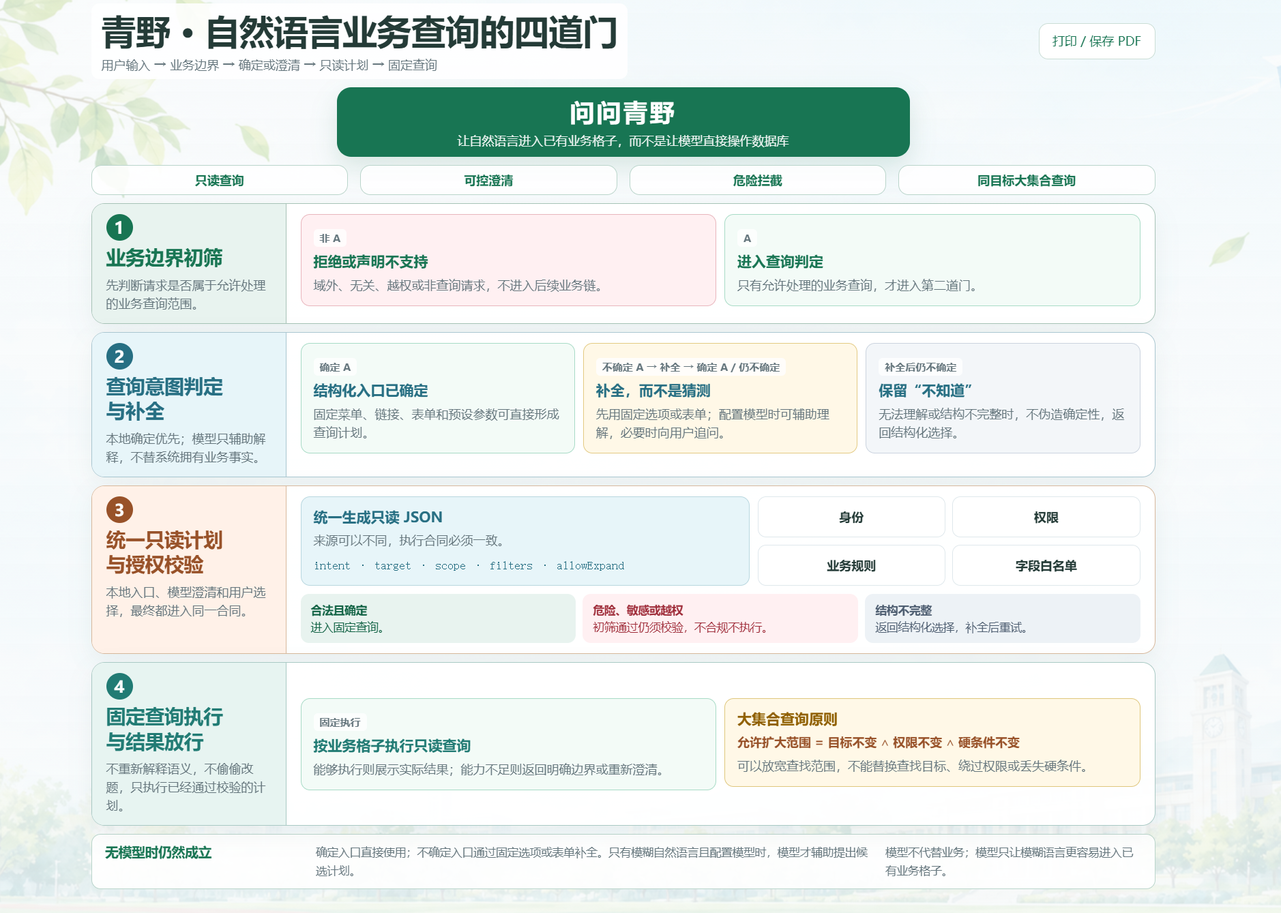
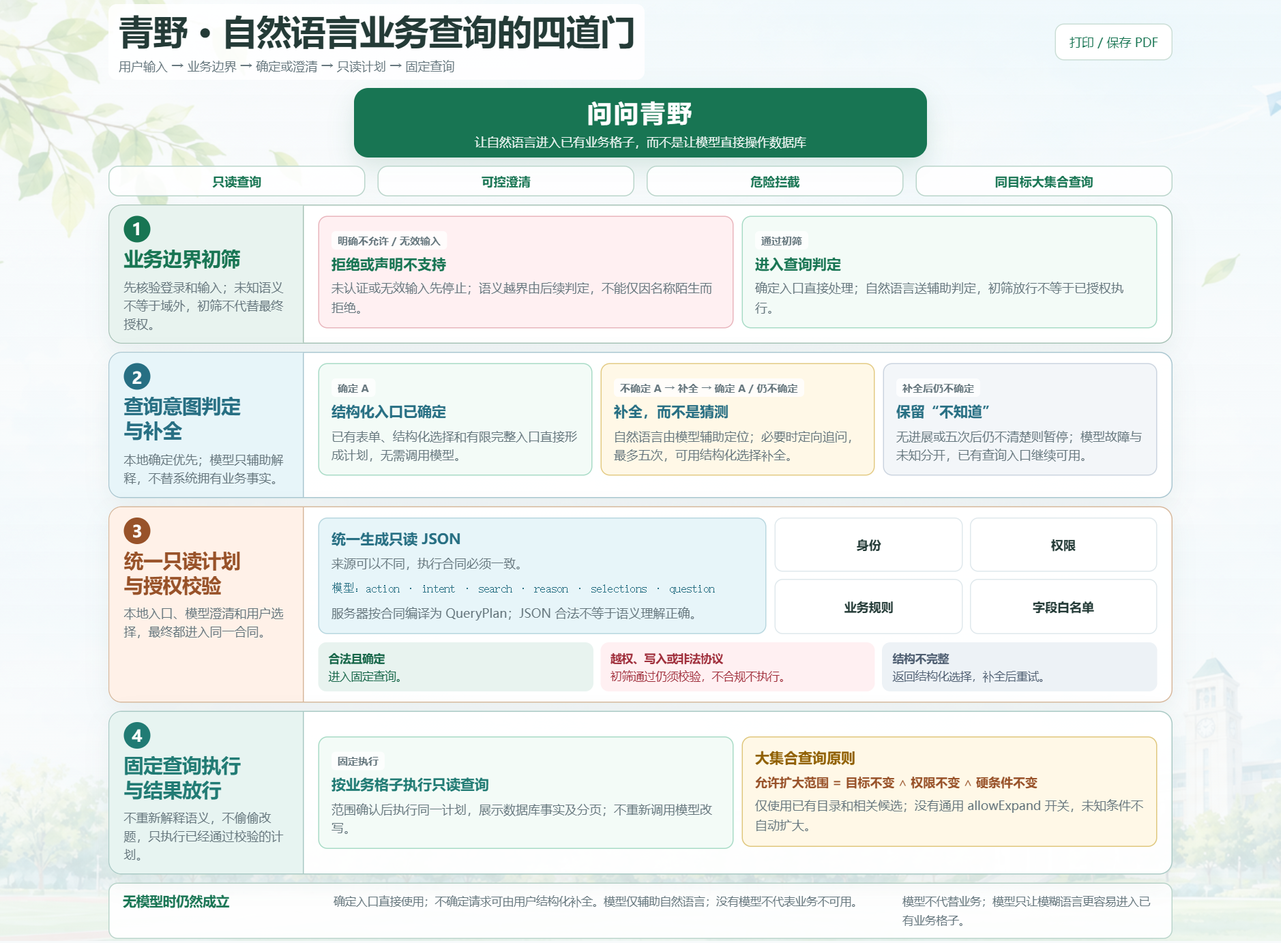
fix: reconcile four-gate port with standalone boundaries

diff --git a/docs/助手四道门.html b/docs/助手四道门.html
@@ -165,19 +165,19 @@
 
       <section class="flow" aria-label="四道门">
         <article class="gate">
-          <header class="gate-label"><span class="gate-number">1</span><h2>业务边界初筛</h2><p>先判断请求是否属于允许处理的业务查询范围。</p></header>
+          <header class="gate-label"><span class="gate-number">1</span><h2>业务边界初筛</h2><p>先核验登录和输入；未知语义不等于域外，初筛不代替最终授权。</p></header>
           <div class="gate-body split-2">
-            <section class="card stop"><span class="status">非 A</span><h3>拒绝或声明不支持</h3><p>域外、无关、越权或非查询请求，不进入后续业务链。</p></section>
-            <section class="card good"><span class="status">A</span><h3>进入查询判定</h3><p>只有允许处理的业务查询，才进入第二道门。</p></section>
+            <section class="card stop"><span class="status">明确不允许 / 无效输入</span><h3>拒绝或声明不支持</h3><p>未认证或无效输入先停止；语义越界由后续判定，不能仅因名称陌生而拒绝。</p></section>
+            <section class="card good"><span class="status">通过初筛</span><h3>进入查询判定</h3><p>确定入口直接处理；自然语言送辅助判定，初筛放行不等于已授权执行。</p></section>
           </div>
         </article>
 
         <article class="gate">
           <header class="gate-label"><span class="gate-number">2</span><h2><span>查询意图判定</span><span>与补全</span></h2><p>本地确定优先；模型只辅助解释，不替系统拥有业务事实。</p></header>
           <div class="gate-body split-3">
-            <section class="card good"><span class="status">确定 A</span><h3>结构化入口已确定</h3><p>固定菜单、链接、表单和预设参数可直接形成查询计划。</p></section>
-            <section class="card warn"><span class="status">不确定 A → 补全 → 确定 A / 仍不确定</span><h3>补全，而不是猜测</h3><p>先用固定选项或表单；配置模型时可辅助理解，必要时向用户追问。</p></section>
-            <section class="card unknown"><span class="status">补全后仍不确定</span><h3>保留“不知道”</h3><p>无法理解或结构不完整时，不伪造确定性，返回结构化选择。</p></section>
+            <section class="card good"><span class="status">确定 A</span><h3>结构化入口已确定</h3><p>已有表单、结构化选择和有限完整入口直接形成计划，无需调用模型。</p></section>
+            <section class="card warn"><span class="status">不确定 A → 补全 → 确定 A / 仍不确定</span><h3>补全，而不是猜测</h3><p>自然语言由模型辅助定位；必要时定向追问，最多五次，可用结构化选择补全。</p></section>
+            <section class="card unknown"><span class="status">补全后仍不确定</span><h3>保留“不知道”</h3><p>无进展或五次后仍不清楚则暂停；模型故障与未知分开，已有查询入口继续可用。</p></section>
           </div>
         </article>
 
@@ -185,12 +185,12 @@
           <header class="gate-label"><span class="gate-number">3</span><h2><span>统一只读计划</span><span>与授权校验</span></h2><p>本地入口、模型澄清和用户选择，最终都进入同一合同。</p></header>
           <div class="gate-body">
             <div class="contract">
-              <section class="json"><strong>统一生成只读 JSON</strong><p>来源可以不同，执行合同必须一致。</p><p><code>intent · target · scope · filters · allowExpand</code></p></section>
+              <section class="json"><strong>统一生成只读 JSON</strong><p>来源可以不同，执行合同必须一致。</p><p><code>模型：action · intent · search · reason · selections · question</code></p><p>服务器按合同编译为 QueryPlan；JSON 合法不等于语义理解正确。</p></section>
               <section class="checks" aria-label="授权校验内容"><div class="check">身份</div><div class="check">权限</div><div class="check">业务规则</div><div class="check">字段白名单</div></section>
             </div>
             <div class="results">
               <div class="result good"><strong>合法且确定</strong><br>进入固定查询。</div>
-              <div class="result stop"><strong>危险、敏感或越权</strong><br>初筛通过仍须校验，不合规不执行。</div>
+              <div class="result stop"><strong>越权、写入或非法协议</strong><br>初筛通过仍须校验，不合规不执行。</div>
               <div class="result unknown"><strong>结构不完整</strong><br>返回结构化选择，补全后重试。</div>
             </div>
           </div>
@@ -199,15 +199,15 @@
         <article class="gate">
           <header class="gate-label"><span class="gate-number">4</span><h2><span>固定查询执行</span><span>与结果放行</span></h2><p>不重新解释语义，不偷偷改题，只执行已经通过校验的计划。</p></header>
           <div class="gate-body gate-body--execution split-2">
-            <section class="card good"><span class="status">固定执行</span><h3>按业务格子执行只读查询</h3><p>能够执行则展示实际结果；能力不足则返回明确边界或重新澄清。</p></section>
-            <section class="large-set"><strong>大集合查询原则</strong><div class="formula">允许扩大范围 = 目标不变 ∧ 权限不变 ∧ 硬条件不变</div><p>可以放宽查找范围，不能替换查找目标、绕过权限或丢失硬条件。</p></section>
+            <section class="card good"><span class="status">固定执行</span><h3>按业务格子执行只读查询</h3><p>范围确认后执行同一计划，展示数据库事实及分页；不重新调用模型改写。</p></section>
+            <section class="large-set"><strong>大集合查询原则</strong><div class="formula">允许扩大范围 = 目标不变 ∧ 权限不变 ∧ 硬条件不变</div><p>仅使用已有目录和相关候选；没有通用 allowExpand 开关，未知条件不自动扩大。</p></section>
           </div>
         </article>
       </section>
 
       <figcaption class="foot" id="diagram-note">
         <strong>无模型时仍然成立</strong>
-        <p>确定入口直接使用；不确定入口通过固定选项或表单补全。只有模糊自然语言且配置模型时，模型才辅助提出候选计划。</p>
+        <p>确定入口直接使用；不确定请求可由用户结构化补全。模型仅辅助自然语言；没有模型不代表业务不可用。</p>
         <p>模型不代替业务；模型只让模糊语言更容易进入已有业务格子。</p>
       </figcaption>
     </figure>

diff --git a/backend/src/main/java/cn/qingye/model/AssistantContractData.java b/backend/src/main/java/cn/qingye/model/AssistantContractData.java
@@ -1,0 +1,16 @@
+package cn.qingye.model;
+
+import java.util.*;
+
+// Generated by scripts/sync-assistant-contract.py from the two JSON contracts.
+// Immutable values only: no resource IO, JSON parser or execution dependency.
+final class AssistantContractData {
+    static final Map<String,Object> BUSINESS = object("version", "qingye-query-v5.5", "decisionOrder", Collections.unmodifiableList(Arrays.asList("BUSINESS_ENTRY", "READ_COMPLETE_REQUEST", "CHECK_COVERAGE", "NECESSARY_CLARIFICATION", "READ_ONLY_PROTOCOL", "FIXED_READ")), "decisionRules", object("BUSINESS_ENTRY", "目录、表单和固定完整入口独立于模型；陌生专名不等于域外；格子是能力，不是数据实例", "READ_COMPLETE_REQUEST", "结合完整请求理解对象、否定、修饰和有序改口；不提前锁死目标。明确条件优先于推测，未变条件保留；冲突先澄清", "CHECK_COVERAGE", "允许完整授权对象和同目标相关候选；不能把摄影变ART、扩大身份权限、丢硬条件或加未要求的CURRENT。非必要未知不参与决策", "NECESSARY_CLARIFICATION", "仅缺必要条件时询问；每请求最多五次自动澄清，保留原请求和问答；第五次已确定照常查询，否则暂停，不等于拒绝或不支持；无进展可提前暂停", "READ_ONLY_PROTOCOL", "服务器编译有限只读请求并展示范围；身份只从会话绑定；范围确认和技术重试不计入澄清次数，确认不证明原意正确；允许有限选项的唯一合同标签规范化为ID，不重解释原句；出处检查继续生效", "FIXED_READ", "格子对应固定参数化查询、同一计划和授权事实；本地不重解释中文或更换目标；新增业务数据不改变能力定义"), "maxQueries", 4, "maxClarifications", 5, "requiredFields", object("ACTIVITIES", Collections.unmodifiableList(Arrays.asList("timeOption", "status")), "EQUIPMENT", Collections.unmodifiableList(Arrays.asList("entity", "timeOption", "status")), "MY_REGISTRATIONS", Collections.unmodifiableList(Arrays.asList("timeOption", "status")), "MY_LOANS", Collections.unmodifiableList(Arrays.asList("timeOption", "status"))), "intents", Collections.unmodifiableList(Arrays.asList("ACTIVITIES", "EQUIPMENT", "MY_REGISTRATIONS", "MY_LOANS")), "intentLabels", Collections.unmodifiableList(Arrays.asList("公开活动", "器材库存", "我的报名", "我的借用")), "times", Collections.unmodifiableList(Arrays.asList("ANY", "TODAY", "TOMORROW", "DAY_AFTER_TOMORROW", "PAST", "CURRENT", "FUTURE", "THIS_WEEK", "NEXT_WEEK", "WEEKEND", "DATE")), "timeLabels", Collections.unmodifiableList(Arrays.asList("全部时间", "今天", "明天", "后天", "过去（已结束）", "现在（进行中）", "未来（未开始）", "本周剩余", "下周", "周末剩余", "指定日期")), "categories", Collections.unmodifiableList(Arrays.asList("SPORT", "ART", "TECH", "VOLUNTEER", "OTHER")), "categoryLabels", Collections.unmodifiableList(Arrays.asList("运动", "艺术", "科技", "志愿", "其他分类")), "states", object("ACTIVITIES", Collections.unmodifiableList(Arrays.asList("ANY")), "EQUIPMENT", Collections.unmodifiableList(Arrays.asList("ANY")), "MY_REGISTRATIONS", Collections.unmodifiableList(Arrays.asList("ANY", "NON_CANCELLED", "REGISTERED", "WAITLISTED", "CANCELLED")), "MY_LOANS", Collections.unmodifiableList(Arrays.asList("ANY", "NON_CANCELLED", "PENDING", "APPROVED", "REJECTED", "CHECKED_OUT", "RETURNED", "CANCELLED"))), "stateLabels", object("ANY", "全部状态", "NON_CANCELLED", "未取消", "REGISTERED", "已报名", "WAITLISTED", "候补", "CANCELLED", "已取消", "PENDING", "待审核", "APPROVED", "已批准", "REJECTED", "未通过", "CHECKED_OUT", "已领取未归还", "RETURNED", "已归还"), "timeOptionsByIntent", object("EQUIPMENT", Collections.unmodifiableList(Arrays.asList("CURRENT", "TODAY", "TOMORROW", "DAY_AFTER_TOMORROW", "THIS_WEEK", "NEXT_WEEK", "WEEKEND", "DATE"))), "timeLabelsByIntent", object("EQUIPMENT", object("CURRENT", "当前库存")), "querySemantics", object("ACTIVITIES", "启用社团的已发布活动；标题或社团名称包含词，地点精确匹配；时间按活动起止时段", "MY_REGISTRATIONS", "当前会话用户现存的全部报名记录，含取消和停用社团；时间按活动时段，不是报名时间；报名不证明出席", "MY_LOANS", "当前会话用户现存的借用记录；时间按计划借用时段；不是实际申请、领取或归还日期", "EQUIPMENT", "启用和停用目录原名/业务数据别名；当前库存或未结束具体时段的预约可用量；没有存放地点台账", "BATCH", "最多四项相互独立的查询；不是关联、交集、排除、统计、极值、冲突比较或依赖执行", "ALL", "仅放开用户明确指定的维度，其余条件保留；全部指当前保留且被授权的记录，不代表完整历史", "PAGING", "每页10条、相同计划继续；当前状态分页而非跨页快照，期间业务变更可能影响完整性，需要时重新核对", "DISPLAY", "可展示同一正确对象的完整授权详情；不能以宽候选冒充满足不支持的硬条件", "NATURAL_LANGUAGE_LIMIT", "陌生名称本身不能证明业务类型；目录不能确定就问业务对象，不猜一个目录返回空结果。未支持的明确排除条件必须停止，不能LOCATE宽列表。"), "clarifications", Collections.unmodifiableList(Arrays.asList("MISSING_INFO", "MISSING_TIME", "UNKNOWN_ENTITY", "DATE_MEANING", "MULTIPLE_REQUESTS", "NOT_UNDERSTOOD")), "entryCommands", Collections.unmodifiableList(Arrays.asList(object("label", "全部活动", "intent", "ACTIVITIES", "timeOption", "ANY"), object("label", "今天活动", "intent", "ACTIVITIES", "timeOption", "TODAY"), object("label", "明天活动", "intent", "ACTIVITIES", "timeOption", "TOMORROW"), object("label", "后天活动", "intent", "ACTIVITIES", "timeOption", "DAY_AFTER_TOMORROW"), object("label", "全部器材", "intent", "EQUIPMENT", "timeOption", "CURRENT"), object("label", "我的报名", "intent", "MY_REGISTRATIONS", "timeOption", "ANY"), object("label", "我的借用", "intent", "MY_LOANS", "timeOption", "ANY"))), "explicitSelections", object("TIME", object("ANY", Collections.unmodifiableList(Arrays.asList("全部时间", "所有日期", "时间不限")), "TODAY", Collections.unmodifiableList(Arrays.asList("今天")), "TOMORROW", Collections.unmodifiableList(Arrays.asList("明天")), "DAY_AFTER_TOMORROW", Collections.unmodifiableList(Arrays.asList("后天")), "PAST", Collections.unmodifiableList(Arrays.asList("过去", "已结束")), "CURRENT", Collections.unmodifiableList(Arrays.asList("进行中", "正在举办", "正在进行")), "FUTURE", Collections.unmodifiableList(Arrays.asList("未来", "未开始")), "THIS_WEEK", Collections.unmodifiableList(Arrays.asList("本周", "这周")), "NEXT_WEEK", Collections.unmodifiableList(Arrays.asList("下周")), "WEEKEND", Collections.unmodifiableList(Arrays.asList("周末", "本周末"))), "STATE", object("ANY", Collections.unmodifiableList(Arrays.asList("全部状态")), "NON_CANCELLED", Collections.unmodifiableList(Arrays.asList("未取消")), "REGISTERED", Collections.unmodifiableList(Arrays.asList("已报名")), "WAITLISTED", Collections.unmodifiableList(Arrays.asList("候补")), "CANCELLED", Collections.unmodifiableList(Arrays.asList("已取消")), "PENDING", Collections.unmodifiableList(Arrays.asList("待审核")), "APPROVED", Collections.unmodifiableList(Arrays.asList("已批准")), "REJECTED", Collections.unmodifiableList(Arrays.asList("未通过", "被拒绝")), "CHECKED_OUT", Collections.unmodifiableList(Arrays.asList("已领取未归还", "尚未归还", "未归还")), "RETURNED", Collections.unmodifiableList(Arrays.asList("已归还"))), "CATEGORY", object("SPORT", Collections.unmodifiableList(Arrays.asList("运动")), "ART", Collections.unmodifiableList(Arrays.asList("艺术")), "TECH", Collections.unmodifiableList(Arrays.asList("科技")), "VOLUNTEER", Collections.unmodifiableList(Arrays.asList("志愿")), "OTHER", Collections.unmodifiableList(Arrays.asList("其他分类")))), "clarificationPolicy", object("limitOutcome", "CLARIFICATION_PAUSED", "confirmationsCounted", false, "retryCounted", false, "stopOnRepeatedQuestion", true), "clarificationQuestions", object("BUSINESS_OBJECT", "你想查看公开活动、器材库存、自己的报名，还是自己的借用？", "OBJECT_NAME", "你想找哪个对象？可以补充名称或社团线索；不确定具体名称也可以说明要浏览的相关范围。", "TIME_SCOPE", "这次确实需要限定哪个时间范围？请说明时间；不限制也可以明确选择全部。", "DATE_MEANING", "你说的日期指活动举办、计划借用，还是报名或实际归还？当前支持前两种时间。", "HARD_CONDITION", "哪些条件必须保留？请明确时间、状态或其他必要限制；不能支持的条件不会被悄悄忽略。", "REQUEST_CHOICE", "你想先查哪一项？原有表单也可组合最多四项独立查询，不能替代跨对象关联。", "CONFLICT", "前后条件有冲突，请说明最终采用哪个条件；没有修改的条件会保留。"));
+    static final Map<String,Object> LOCATOR = object("fields", Collections.unmodifiableList(Arrays.asList("action", "intent", "search", "reason", "selections", "question")), "selectionFields", Collections.unmodifiableList(Arrays.asList("field", "value", "source")), "maxSelections", 4, "maxSearchLength", 60, "maxSourceLength", 100, "clarificationReasons", Collections.unmodifiableList(Arrays.asList("MISSING_INFO", "UNKNOWN_ENTITY", "NOT_UNDERSTOOD", "UNSUPPORTED_FILTER", "MULTIPLE_REQUESTS")), "rejectionReasons", Collections.unmodifiableList(Arrays.asList("OUTSIDE_DOMAIN", "PRIVATE_DATA", "WRITE_OPERATION", "IDENTITY_CLAIM", "UNSUPPORTED_CAPABILITY")), "examples", Collections.unmodifiableList(Arrays.asList(object("action", "LOCATE", "intent", "ACTIVITIES", "search", null, "reason", null, "selections", Collections.unmodifiableList(Arrays.asList()), "question", null), object("action", "LOCATE", "intent", "EQUIPMENT", "search", "相机", "reason", null, "selections", Collections.unmodifiableList(Arrays.asList()), "question", null), object("action", "LOCATE", "intent", "MY_LOANS", "search", "相机", "reason", null, "selections", Collections.unmodifiableList(Arrays.asList(object("field", "TIME", "value", "TOMORROW", "source", "明天"), object("field", "STATE", "value", "CANCELLED", "source", "已取消"))), "question", null), object("action", "LOCATE", "intent", "ACTIVITIES", "search", null, "reason", null, "selections", Collections.unmodifiableList(Arrays.asList(object("field", "DATE", "value", "2026-10-22", "source", "2026年10月22日"))), "question", null), object("action", "CLARIFY", "intent", null, "search", null, "reason", "MISSING_INFO", "selections", Collections.unmodifiableList(Arrays.asList()), "question", "BUSINESS_OBJECT"), object("action", "REJECT", "intent", null, "search", null, "reason", "WRITE_OPERATION", "selections", Collections.unmodifiableList(Arrays.asList()), "question", null))));
+    private static Map<String,Object> object(Object... entries) {
+        var result = new LinkedHashMap<String,Object>();
+        for (int i=0;i<entries.length;i+=2) result.put((String)entries[i],entries[i+1]);
+        return Collections.unmodifiableMap(result);
+    }
+    private AssistantContractData() {}
+}

diff --git a/backend/src/main/java/cn/qingye/model/AssistantContract.java b/backend/src/main/java/cn/qingye/model/AssistantContract.java
@@ -4,29 +4,16 @@ import java.util.*;
 import java.time.LocalDate;
 import java.time.format.DateTimeFormatter;
 import java.time.format.DateTimeParseException;
-import com.fasterxml.jackson.core.type.TypeReference;
-import com.fasterxml.jackson.databind.ObjectMapper;
 
 /** One capability source for validation, prompt metadata and generated mini-program selectors. */
 public final class AssistantContract {
-    private static final Map<String,Object> SPEC=load();
+    private static final Map<String,Object> SPEC=AssistantContractData.BUSINESS;
     public static final String VERSION=(String)SPEC.get("version");
     public static final int MAX_QUERIES=(Integer)SPEC.get("maxQueries"), MAX_CLARIFICATIONS=(Integer)SPEC.get("maxClarifications");
     public static final List<String> INTENTS=list("intents"),TIMES=list("times"),CATEGORIES=list("categories");
     public static final List<String> REGISTRATION_STATES=states("MY_REGISTRATIONS"),LOAN_STATES=states("MY_LOANS");
     public static final Set<String> CLARIFICATIONS=Set.copyOf(list("clarifications"));
     private AssistantContract() {}
-    @SuppressWarnings("unchecked") private static Map<String,Object> load() {
-        try(var input=AssistantContract.class.getResourceAsStream("/assistant-contract.json")) {
-            var spec=new ObjectMapper().readValue(input,new TypeReference<Map<String,Object>>(){});
-            if(!Objects.equals(spec.get("maxQueries"),4)||!Objects.equals(spec.get("maxClarifications"),5))throw new IllegalStateException("Unsupported protocol limits");
-            return (Map<String,Object>)freeze(spec);
-        }catch(java.io.IOException e){throw new ExceptionInInitializerError(e);}
-    }
-    private static Object freeze(Object value) {
-        if(value instanceof Map<?,?> m){var copy=new LinkedHashMap<String,Object>();m.forEach((k,v)->copy.put(k.toString(),freeze(v)));return Collections.unmodifiableMap(copy);}
-        if(value instanceof List<?> l)return l.stream().map(AssistantContract::freeze).toList();return value;
-    }
     @SuppressWarnings("unchecked") private static List<String> list(String key){return (List<String>)SPEC.get(key);}
     @SuppressWarnings("unchecked") public static List<String> states(String intent){return ((Map<String,List<String>>)SPEC.get("states")).getOrDefault(intent,List.of("ANY"));}
     @SuppressWarnings("unchecked") public static List<String> times(String intent){return ((Map<String,List<String>>)SPEC.get("timeOptionsByIntent")).getOrDefault(intent,TIMES);}
@@ -73,7 +60,6 @@ public final class AssistantContract {
                     String label=value;var matches=options.entrySet().stream().filter(e->e.getValue().contains(label)).map(Map.Entry::getKey).toList();
                     if(matches.size()!=1)return DirectoryCompilation.failed(DirectoryFailure.UNSUPPORTED_SELECTION);value=matches.get(0);
                 }
-                var allowed=options.getOrDefault(value,List.of());
                 // A model quotes the user's phrase, not a server-owned canonical label.
                 // Accept a phrase only when it contains a cue for this finite value and
                 // no cue for a competing value. Default-valued selections are inert and
@@ -105,5 +91,5 @@ public final class AssistantContract {
     }
     public static Object locatorSelections(){return SPEC.get("explicitSelections");}
     @SuppressWarnings("unchecked") public static Map<String,String> clarificationQuestions(){return (Map<String,String>)SPEC.get("clarificationQuestions");}
-    public static Map<String,Object> describe(){return SPEC;}
+    public static Map<String,Object> describe(){return Collections.unmodifiableMap(SPEC);}
 }

diff --git a/scripts/sync-assistant-contract.py b/scripts/sync-assistant-contract.py
@@ -1,4 +1,4 @@
-"""Generate the mini-program vocabulary from the same capability file used by Java and prompts."""
+"""Generate immutable Java values and client vocabulary from the canonical JSON contracts."""
 import argparse
 import json
 from pathlib import Path
@@ -14,9 +14,38 @@ CLIENT_KEYS=(
 )
 client_spec={key:spec[key] for key in CLIENT_KEYS}
 content='// Generated by scripts/sync-assistant-contract.py; edit the server contract, not this file.\nmodule.exports = '+json.dumps(client_spec,ensure_ascii=False,indent=2)+'\n'
+def java_value(value):
+    if isinstance(value, dict):
+        entries = [json.dumps(k, ensure_ascii=False) + ', ' + java_value(v) for k, v in value.items()]
+        return 'object(' + ', '.join(entries) + ')'
+    if isinstance(value, list):
+        return 'Collections.unmodifiableList(Arrays.asList(' + ', '.join(map(java_value, value)) + '))'
+    return json.dumps(value, ensure_ascii=False)
+
+
+def java_source():
+    protocol = json.loads((source.parent / 'assistant-locator-protocol.json').read_text(encoding='utf-8'))
+    return ("package cn.qingye.model;\n\nimport java.util.*;\n\n"
+        "// Generated by scripts/sync-assistant-contract.py from the two JSON contracts.\n"
+        "// Immutable values only: no resource IO, JSON parser or execution dependency.\n"
+        "final class AssistantContractData {\n"
+        "    static final Map<String,Object> BUSINESS = " + java_value(spec) + ";\n"
+        "    static final Map<String,Object> LOCATOR = " + java_value(protocol) + ";\n"
+        "    private static Map<String,Object> object(Object... entries) {\n"
+        "        var result = new LinkedHashMap<String,Object>();\n"
+        "        for (int i=0;i<entries.length;i+=2) result.put((String)entries[i],entries[i+1]);\n"
+        "        return Collections.unmodifiableMap(result);\n"
+        "    }\n"
+        "    private AssistantContractData() {}\n"
+        "}\n")
+
 parser=argparse.ArgumentParser();parser.add_argument('--check',action='store_true');args=parser.parse_args()
-if args.check:
-    if not target.exists() or target.read_text(encoding='utf-8')!=content:raise SystemExit('Assistant capability vocabulary is stale; run scripts/sync-assistant-contract.py')
-    print('Assistant capability vocabulary: PASS')
-else:
-    target.write_text(content,encoding='utf-8');print('Generated '+str(target))
+outputs = {target: content, ROOT/'backend/src/main/java/cn/qingye/model/AssistantContractData.java': java_source()}
+for path, expected in outputs.items():
+    if args.check:
+        if not path.exists() or path.read_text(encoding='utf-8') != expected:
+            raise SystemExit('Assistant contract output is stale: '+str(path.relative_to(ROOT))+'; run scripts/sync-assistant-contract.py')
+    else:
+        path.write_text(expected,encoding='utf-8',newline='\n')
+        print('Generated '+str(path.relative_to(ROOT)))
+if args.check: print('Assistant capability vocabulary and immutable Java data: PASS')

diff --git a/backend/src/test/java/cn/qingye/GeneratedAssistantContractTest.java b/backend/src/test/java/cn/qingye/GeneratedAssistantContractTest.java
@@ -1,0 +1,47 @@
+package cn.qingye;
+
+import cn.qingye.model.AssistantContract;
+import cn.qingye.model.AssistantLocatorProtocol;
+import com.fasterxml.jackson.databind.ObjectMapper;
+import org.junit.jupiter.api.Test;
+import java.util.List;
+import java.util.Map;
+import static org.assertj.core.api.Assertions.*;
+
+class GeneratedAssistantContractTest {
+    @Test void generatedValuesExactlyMatchBothCanonicalResources() throws Exception {
+        var json=new ObjectMapper();
+        try(var business=getClass().getResourceAsStream("/assistant-contract.json");
+            var locator=getClass().getResourceAsStream("/assistant-locator-protocol.json")) {
+            assertThat(json.<com.fasterxml.jackson.databind.JsonNode>valueToTree(AssistantContract.describe())).isEqualTo(json.readTree(business));
+            assertThat(json.<com.fasterxml.jackson.databind.JsonNode>valueToTree(AssistantLocatorProtocol.describe())).isEqualTo(json.readTree(locator));
+        }
+        assertThat(AssistantContract.MAX_QUERIES).isEqualTo(4);
+        assertThat(AssistantContract.MAX_CLARIFICATIONS).isEqualTo(5);
+    }
+
+    @Test @SuppressWarnings("unchecked") void callersCannotChangeNestedCapabilitiesOrProtocol() {
+        var spec=AssistantContract.describe();
+        assertThatThrownBy(()->spec.put("maxQueries",100)).isInstanceOf(UnsupportedOperationException.class);
+        var states=(Map<String,List<String>>)spec.get("states");
+        assertThatThrownBy(()->states.get("MY_LOANS").add("ADMIN")).isInstanceOf(UnsupportedOperationException.class);
+        var protocol=AssistantLocatorProtocol.describe();
+        var examples=(List<Map<String,Object>>)protocol.get("examples");
+        assertThatThrownBy(()->examples.get(0).put("action","WRITE")).isInstanceOf(UnsupportedOperationException.class);
+    }
+
+    @Test void requestAndClarificationCollectionsAreSnapshotsWithoutHidingInvalidNulls() {
+        var mutable=new java.util.ArrayList<cn.qingye.api.Forms.AssistantQuery>();
+        mutable.add(null);
+        var request=new cn.qingye.api.Forms.AssistantQueries(mutable);
+        mutable.clear();
+        assertThat(request.queries()).containsExactly((cn.qingye.api.Forms.AssistantQuery)null);
+        assertThatThrownBy(()->request.queries().clear()).isInstanceOf(UnsupportedOperationException.class);
+        assertThat(new cn.qingye.api.Forms.AssistantQueries(null).queries()).isNull();
+        var choices=new java.util.ArrayList<>(List.of("ACTIVITIES"));
+        var missing=new cn.qingye.model.AssistantQualification.MissingCondition(1,"intent","查询对象",choices);
+        choices.add("WRITE");
+        assertThat(missing.choices()).containsExactly("ACTIVITIES");
+        assertThatThrownBy(()->missing.choices().clear()).isInstanceOf(UnsupportedOperationException.class);
+    }
+}

diff --git a/backend/src/main/java/cn/qingye/model/AssistantLocatorProtocol.java b/backend/src/main/java/cn/qingye/model/AssistantLocatorProtocol.java
@@ -1,21 +1,14 @@
 package cn.qingye.model;
 
-import com.fasterxml.jackson.databind.JsonNode;
-import com.fasterxml.jackson.databind.ObjectMapper;
 import java.util.*;
 
-/** Wire vocabulary only; does not change the business capabilities or infer user intent. */
+/** Wire vocabulary only; does not change business capabilities or infer user intent. */
 public final class AssistantLocatorProtocol {
-    private static final JsonNode SPEC=load();
+    private static final Map<String,Object> SPEC=AssistantContractData.LOCATOR;
     public static final List<String> FIELDS=list("fields"), SELECTION_FIELDS=list("selectionFields");
     public static final Set<String> CLARIFICATIONS=Set.copyOf(list("clarificationReasons")),REJECTIONS=Set.copyOf(list("rejectionReasons"));
-    public static final int MAX_SELECTIONS=SPEC.path("maxSelections").asInt(),MAX_SEARCH=SPEC.path("maxSearchLength").asInt(),MAX_SOURCE=SPEC.path("maxSourceLength").asInt();
+    public static final int MAX_SELECTIONS=(Integer)SPEC.get("maxSelections"),MAX_SEARCH=(Integer)SPEC.get("maxSearchLength"),MAX_SOURCE=(Integer)SPEC.get("maxSourceLength");
     private AssistantLocatorProtocol(){}
-    private static JsonNode load(){
-        try(var input=AssistantLocatorProtocol.class.getResourceAsStream("/assistant-locator-protocol.json")){
-            return new ObjectMapper().readTree(input);
-        }catch(java.io.IOException e){throw new ExceptionInInitializerError(e);}
-    }
-    private static List<String> list(String key){var result=new ArrayList<String>();SPEC.path(key).forEach(v->result.add(v.asText()));return List.copyOf(result);}
-    public static JsonNode describe(){return SPEC.deepCopy();}
+    @SuppressWarnings("unchecked") private static List<String> list(String key){return (List<String>)SPEC.get(key);}
+    public static Map<String,Object> describe(){return Collections.unmodifiableMap(SPEC);}
 }

diff --git a/backend/src/main/java/cn/qingye/business/AssistantService.java b/backend/src/main/java/cn/qingye/business/AssistantService.java
@@ -73,7 +73,7 @@ public class AssistantService {
             if(compiled.accepted())return preview(actor,session,requestId,compiled.query(),"BUSINESS_DIRECTORY");
             return parsingFailed(actor,session,requestId,turns,questions,candidates,replies,"INVALID_PROTOCOL","BUSINESS_CONTRACT_"+compiled.failure().name());
         }
-        String questionKey=hint.question()!=null?hint.question():located?"HARD_CONDITION":"MULTIPLE_REQUESTS".equals(hint.reason())?"REQUEST_CHOICE":"BUSINESS_OBJECT";
+        String questionKey=hint.question()!=null?hint.question():"MULTIPLE_REQUESTS".equals(hint.reason())?"REQUEST_CHOICE":"BUSINESS_OBJECT";
         String question=AssistantContract.clarificationQuestions().get(questionKey);
         String candidate;
         try{candidate=JSON.writeValueAsString(Arrays.asList(hint.action(),hint.intent(),hint.search(),hint.reason(),hint.selections()));}
@@ -82,7 +82,7 @@ public class AssistantService {
         boolean repeated=false;
         for(int i=0;i<questions.size();i++)if(questions.get(i).equals(question)&&candidates.get(i).equals(candidate)){repeated=true;break;}
         if(replies>0&&("NOT_UNDERSTOOD".equals(hint.reason())||repeated))return paused("NO_CLARIFICATION_PROGRESS",turns,replies,question);
-        var result=new LinkedHashMap<>(stopped("CLARIFY",located?"MISSING_INFO":hint.reason(),"MODEL_LOCATOR"));
+        var result=new LinkedHashMap<>(stopped("CLARIFY",hint.reason(),"MODEL_LOCATOR"));
         result.put("originalRequest",turns.get(0));result.put("userTurns",List.copyOf(turns));
         result.put("question",question);
         if(replies<AssistantContract.MAX_CLARIFICATIONS) {

diff --git a/backend/src/test/java/cn/qingye/AssistantHintDecoderTest.java b/backend/src/test/java/cn/qingye/AssistantHintDecoderTest.java
@@ -43,7 +43,7 @@ class AssistantHintDecoderTest {
             .isInstanceOfSatisfying(ProtocolViolation.class,e->assertThat(e.category()).isEqualTo(Failure.TRUNCATED_OUTPUT));
     }
     @Test void generatedPromptExamplesAreAcceptedByTheRealDecoderWithoutExtraFields()throws Exception{
-        var spec=AssistantLocatorProtocol.describe();var instruction=cn.qingye.integration.LlmPlanner.instruction(java.time.Clock.systemUTC());
+        var spec=json.valueToTree(AssistantLocatorProtocol.describe());var instruction=cn.qingye.integration.LlmPlanner.instruction(java.time.Clock.systemUTC());
         assertThat(instruction).contains(json.writeValueAsString(spec));
         for(var example:spec.path("examples")){
             var candidate=AssistantHintDecoder.decodeContent(json,json.writeValueAsString(example));
@@ -52,6 +52,6 @@ class AssistantHintDecoderTest {
         // Exported metadata is a copy; a consumer cannot modify the running protocol.
         ((com.fasterxml.jackson.databind.node.ObjectNode)spec).put("maxSelections",500);
         assertThat(AssistantLocatorProtocol.MAX_SELECTIONS).isEqualTo(4);
-        assertThat(AssistantLocatorProtocol.describe().path("maxSelections").asInt()).isEqualTo(4);
+        assertThat(AssistantLocatorProtocol.describe().get("maxSelections")).isEqualTo(4);
     }
 }

diff --git a/backend/src/main/java/cn/qingye/api/Forms.java b/backend/src/main/java/cn/qingye/api/Forms.java
@@ -29,7 +29,11 @@ public final class Forms {
     public record AssistantConfirmation(@NotBlank @Pattern(regexp="[a-fA-F0-9-]{36}") String token) {
     }
     public record AssistantClarification(@NotBlank @Pattern(regexp="[a-fA-F0-9-]{36}") String token,@NotBlank @Size(max=300) String answer) {}
-    public record AssistantQueries(@NotEmpty @Size(min=2,max=4) List<@NotNull @Valid AssistantQuery> queries) {}
+    public record AssistantQueries(@NotEmpty @Size(min=2,max=4) List<@NotNull @Valid AssistantQuery> queries) {
+        public AssistantQueries {
+            queries=queries==null?null:java.util.Collections.unmodifiableList(new java.util.ArrayList<>(queries));
+        }
+    }
     public record AssistantQuery(@NotBlank String intent,@Size(max=80) String entity,String category,
                                  @NotBlank String timeOption,String date,@NotBlank String status,@Size(max=100) String location) {}
     public record Messages(@NotEmpty @Size(max=100) List<@NotNull @Positive Long> ids) {

diff --git a/scripts/check-client.py b/scripts/check-client.py
@@ -31,8 +31,8 @@ def main():
     allowed = native | component_names
     for file in CLIENT.rglob("*.wxml"):
         source = file.read_text(encoding="utf-8")
-        if "pages" in file.parts:
-            assert not re.search(r"<\s*button\b", source), f"Page action must use qy-action or a semantic view: {file}"
+        if "pages" in file.parts and re.search(r"<\s*button\b", source):
+            raise RuntimeError(f"Page action must use qy-action or a semantic view: {file}")
         wrapped = '<root xmlns:wx="urn:wechat">' + source + '</root>'
         wrapped = re.sub(r'\{\{(.*?)\}\}', lambda m: '{{' + html.escape(html.unescape(m.group(1)), quote=False) + '}}', wrapped, flags=re.S)
         # Native WXML permits boolean attributes; turn them into XML equivalents for structural checks.

diff --git a/scripts/tests/test_client_checks.py b/scripts/tests/test_client_checks.py
@@ -59,6 +59,13 @@ class ClientCheckProcessTest(unittest.TestCase):
                 self.assertIn("Unsupported native tag", result.stderr)
                 self.assertNotIn("checks passed", result.stdout)
 
+    def test_direct_page_button_blocks_in_both_python_modes(self):
+        for optimized in (False, True):
+            with self.subTest(optimized=optimized):
+                result = self.check_fixture(optimized=optimized, tag="button")
+                self.assertNotEqual(result.returncode, 0, result.stdout)
+                self.assertIn("Page action must use qy-action", result.stderr)
+
 
 if __name__ == "__main__":
     unittest.main()

diff --git a/backend/src/main/java/cn/qingye/model/AssistantQualification.java b/backend/src/main/java/cn/qingye/model/AssistantQualification.java
@@ -4,7 +4,9 @@ import java.util.*;
 
 /** Structural completeness only: this cannot prove coverage of a natural-language request. */
 public final class AssistantQualification {
-    public record MissingCondition(int queryIndex,String field,String label,List<String> choices) {}
+    public record MissingCondition(int queryIndex,String field,String label,List<String> choices) {
+        public MissingCondition { choices=List.copyOf(choices); }
+    }
     private AssistantQualification() {}
 
     /** Preserve supported values exactly; a null is never filled with ANY or a guessed object. */
